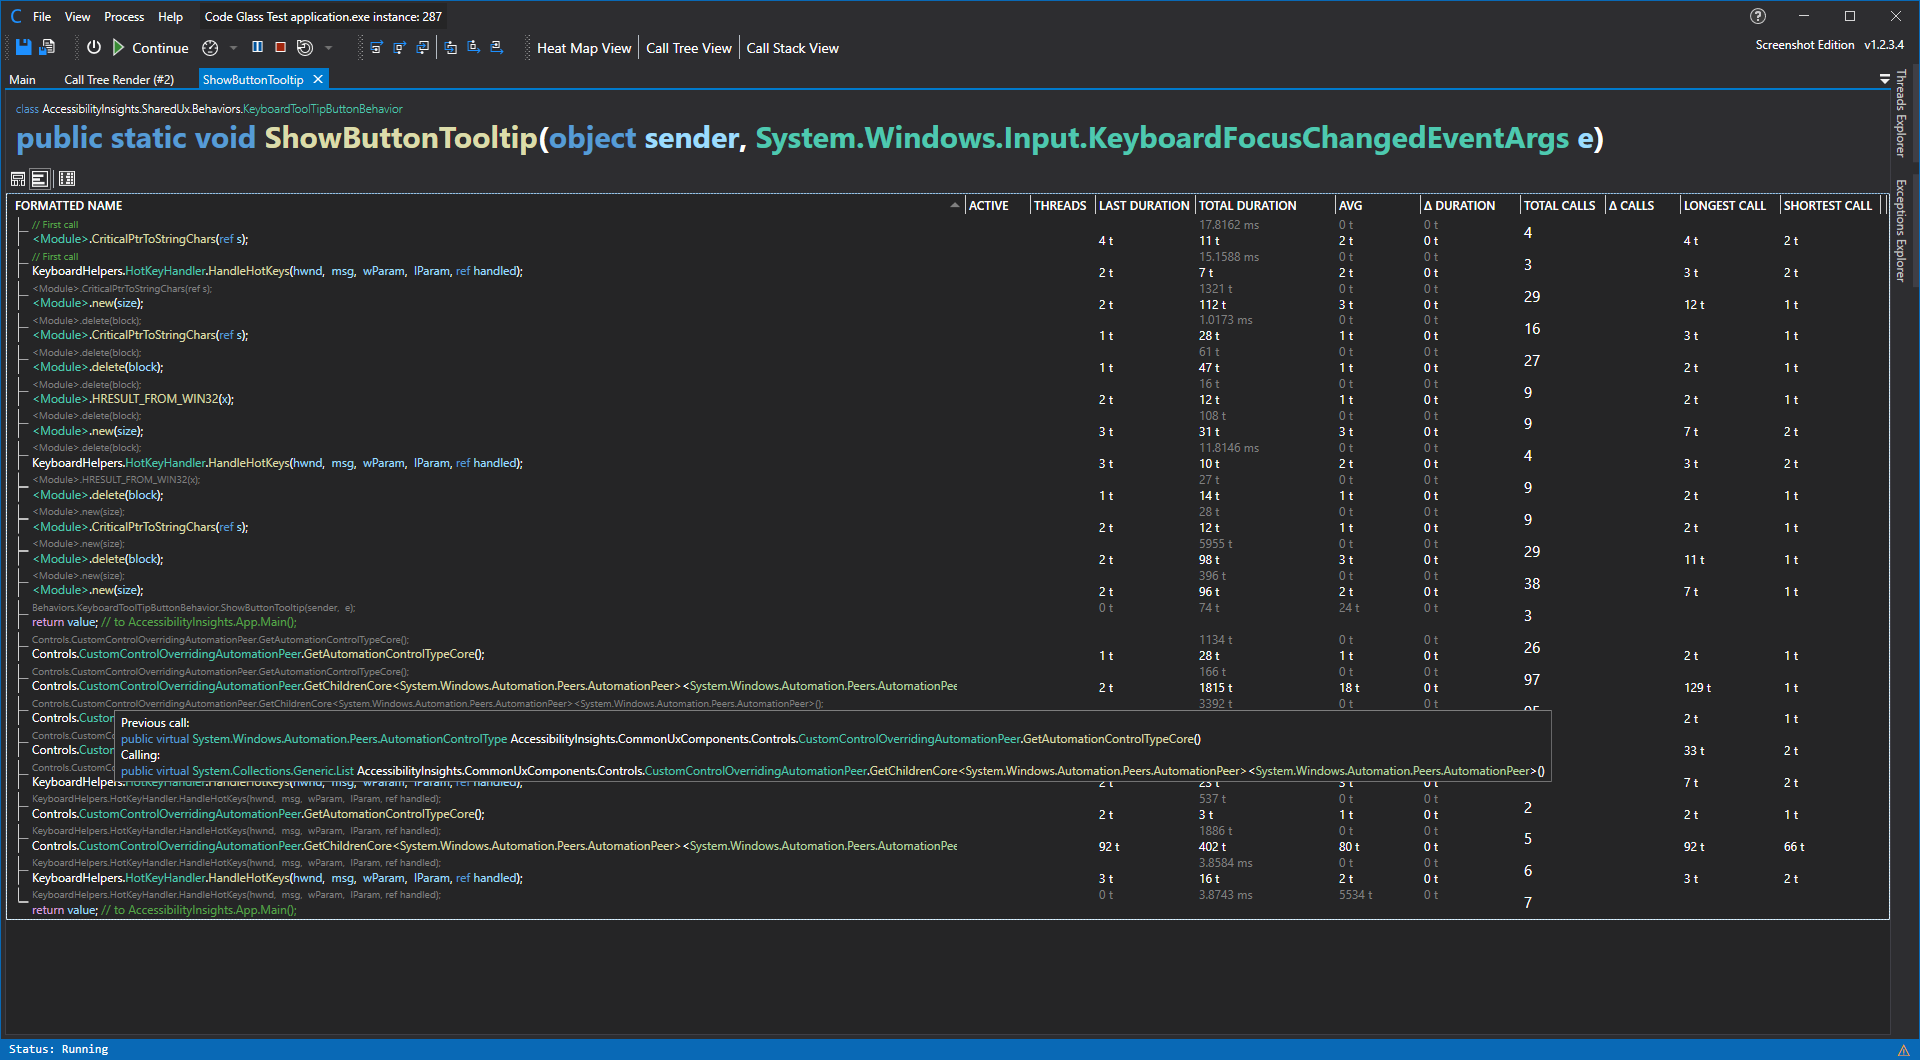
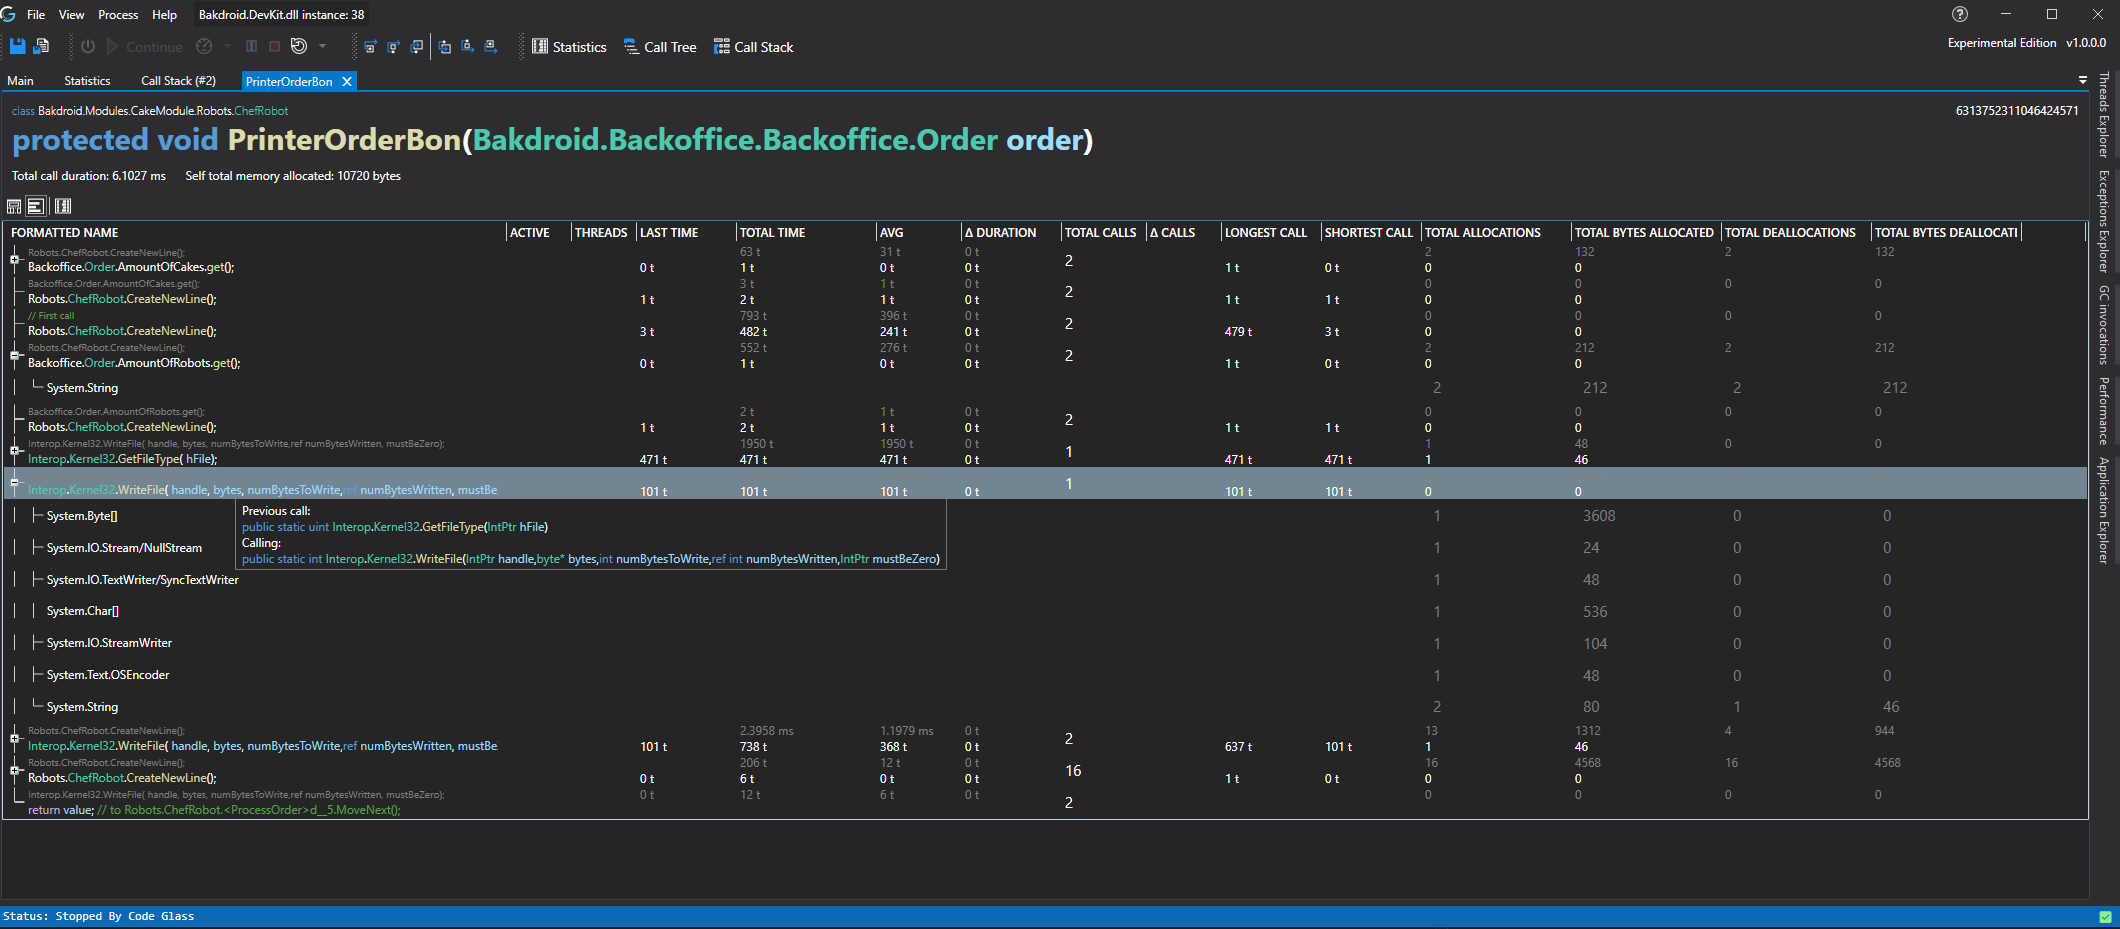
Start on docs for memory profiling

diff --git a/_docs/views/ApplicationInstanceDockWindow/CodeMemberDetailsView.md b/_docs/views/ApplicationInstanceDockWindow/CodeMemberDetailsView.md
@@ -21,7 +21,7 @@ See them for more information.
 {% include alert.html  type="warning" title="This is not done by decompiling your application!" content="This feature does <b>not</b> work by decompiling your application and inspecting your code, for info on how it does work see the the <a href=\"../../features/CodeBodyReconstruction\" >Code Body Reconstruction feature</a> description." %}
 From this view you can see on the left what functions call this function and how much time the function took for the caller.
 
-On the Right you see the embodiement  of our [Code Body Reconstruction feature](../../features/CodeBodyReconstruction.md). <br/>
+On the right you see the embodiement of our [Code Body Reconstruction feature](../../features/CodeBodyReconstruction.md). <br/>
 This view shows you not only wich functions were called in real time by this function but so much more, inluding:
 - Where in the code a function call was made. 
 - What paths needs to be taken inside the function to reach a specific function call 
@@ -33,6 +33,8 @@ This view shows you not only wich functions were called in real time by this fun
 - Cold Paths
 - Possibilities for optimizations, like loop unroling. 
 - How your code really behaves against what you wrote.
+- How much memory this function has allocated. (Only available with an [Experimental license](../../Editions/Experimental.md))
+- Where memory gets allocated. (Only available with an [Experimental license](../../Editions/Experimental.md))
 - see [Code Body Reconstruction feature](../../features/CodeBodyReconstruction.md) for more.
 
 {% include alertNoTitle.html  type="info" content="Keep in mind that what you will see is highly dependent on the <a href=\"../../features/ProfilingDataFiltering#application-instance-start-filters\" >Application Instance Start Filters</a>." %}
@@ -46,7 +48,16 @@ This view gives you statistics on the code paths within the function, it shows y
 
 {% include Statistics/BasicStatisticsColumnExplaination.md %}
 
+## Memory Statistics
+If you have an [Experimental License](../../Editions/Experimental.md) and you have Memory Profiling enabled, this view will give more information about allocations in your code.<br>
 
+In this case the following statistics columns have been added:
+- Total Allocations, the amount of times an object has been allocated, or the sum of all allocated objects in that namespace.
+- Total Deallocations, the amount of times an object has been deallocated, or the sum of all deallocated objects in that namespace.
+- Total Bytes Allocated, the amount of bytes an object has been allocated, or the sum of all allocated bytes in that namespace.
+- Total Bytes Deallocated, the amount of bytes an object has been deallocated, or the sum of all deallocated bytes in that namespace.
+
+Code Paths that allocate can also be expanded to see which objects it has allocated. Double clicking on the allocated object will open the [Allocated by Code Path View](AllocatedByCodePathView).
 
 
 ## Statistics View

diff --git a/_docs/views/ApplicationInstanceDockWindow/StatisticsWindow.md b/_docs/views/ApplicationInstanceDockWindow/StatisticsWindow.md
@@ -6,10 +6,20 @@ description: The profiling statistics of a (previously) profiled application.
 ![assets/img/ApplicationInstanceWindow/StatisticsWindow.png](../../../assets/img/ApplicationInstanceWindow/StatisticsWindow.png)
 
 
-This view contains the general statistics of the profiled application by namespace, classes, methods, etc.
-
 {% include Statistics/BasicStatisticsExplaination.md %}
 
+## Memory Statistics
+If you have an [Experimental License](../../Editions/Experimental.md) and you have Memory Profiling enabled, this view will give insight in the memory usage per namespace, class and method.<br>
+In this view you can choose to toggle the visibilty of the memory statistics by pressing the "Toggle Memory Stats" button.
+
+
+For memory profiling the following columns have been added to this table:
+- Self Allocations, the amount of allocations that happen in this function.
+- Self Deallocation, the amount of deallocations that happen in this function.
+- Callee Allocations, the total sum of allocations that happen in functions called by this function.
+- Self Bytes Allocated, the amount of bytes allocated in this function.
+- Self Bytes Deallocated, the amount of bytes deallocated in the fucntion.
+- Callee Bytes Allocated, the total sum of bytes allocated by functions called by this function.
 
 # Application Breadcrumbs
 - { All paths leading to [Application Instance Window](../ApplicationInstanceDockWindow.md) } /   / [View Menu](../ApplicationInstanceDockWindow/MenuBar.md#view-menu) / 
@@ -20,4 +30,3 @@ This view contains the general statistics of the profiled application by namespa
 - [Function Details View](CodeMemberDetailsView.md)
 - [Feature - Time Messurement](../../features/TimeMessurement.md)
 - [Feature - Profiling data filtering](../../features/ProfilingDataFiltering.md)
-

diff --git a/_includes/ProfilerSettings/BasicProfilerSettingsViewExplaination.md b/_includes/ProfilerSettings/BasicProfilerSettingsViewExplaination.md
@@ -7,6 +7,7 @@ Settings used at the start of the application instance can not be changed after 
 - Disable all function inlining
 - Pause at the start, Pauses the application before it ran any [not filtered](../../features/ProfilingDataFiltering) code.
 - Additional Arguments, the set of command-line arguments to use when starting the application
+- Memory profiling
 
 Keep in mind that currently, with  [Visual Studio Solution Runtime]({{site.baseurl}}/docs/features/supportedruntimes#visual-studio-solution), additional Arguments are supplied to the Visual Studio Process (devenv.exe) process, not to the process you are debugging with Visual Studio.
 If you require CodeGlass to supply it to the debugging process let us know by filing an [issue on github](({{site.baseurl}}/docs/pages/contact.md#github)).
@@ -43,7 +44,6 @@ It shows an estimate of how much memory it costs to store it.
 ### Roadmap settings
 Currently not changeable but will in the future release:
 - Enable Object counters, counting of objects and instances. ([Roadmap](../../Roadmap/ObjectCounters))
-- Enable memory profiler, basic memory profiler. ([Roadmap](../../Roadmap/MemoryProfiler))
 - Enable Advanced Memory profiler ([Pro Edition](../../Editions/Pro)), advanced memory profiling functions. ([Roadmap](../../Roadmap/AdvancedMemoryProfiler))
 - Exclude function time ([Pro Edition](../../Editions/Pro)), able to exclude function time each function call. (Currently included and will stay included by default for all [editions](../../Editions)) ([Roadmap](../../Roadmap/ExcludeFunctionTime))
 - Enable per function [execution control](../../features/ApplicationInstanceExecutionControl) ([Pro Edition](../../Editions/Pro)), allowes execution control but on function niveau. ([Roadmap](../../Roadmap/PerFunctionAction))

diff --git a/_docs/features/MemoryProfiling.md b/_docs/features/MemoryProfiling.md
@@ -1,0 +1,18 @@
+---
+title: Feature - Memory Profiling 
+description: Realtime memory profiler.
+---
+
+# Memory Profiling
+With our [realtime profiling](../features/RealtimeDataCollection.md) we are able to solve many problems other profilers can't. With our memory profiler we can also help with memory related problems and help you find the parts of your application that consume a lot of memory.
+![assets/img/ApplicationInstanceWindow/MemoryStatisticsWindow.png](../../assets/img/ApplicationInstanceWindow/MemoryStatisticsWindow.png)
+
+## Available Statistics
+At this point different pieces memory information can be viewed.<br>
+First there are the dedicated memory statistics view like the onces here:
+- [Memory Statistics View](../views/ApplicationInstanceDockWindow/MemoryStatisticsWindow.md)
+- [Allocatied By CodeP Path View](../views/ApplicationInstanceDockWindow/AllocatedByCodePathView.md)
+
+Memory statistics have also been integrated into some of the other views. Those views can be found here:
+- [Statistics View](../views/ApplicationInstanceDockWindow/StatisticsWindow.md#memory-statistics)
+- [Function Details View](../views/ApplicationInstanceDockWindow/CodeMemberDetailsView.md#memory-statistics)

diff --git a/_docs/views/ApplicationInstanceDockWindow/MemoryStatisticsWindow.md b/_docs/views/ApplicationInstanceDockWindow/MemoryStatisticsWindow.md
@@ -1,0 +1,15 @@
+---
+title: View - Application Instance - Memory Statistics View
+description: The profiling statistics of a (previously) profiled application.
+---
+
+# Memory Statistics View
+![assets/img/ApplicationInstanceWindow/MemoryStatisticsWindow.png](../../../assets/img/ApplicationInstanceWindow/MemoryStatisticsWindow.png)
+
+The view contains the general memory statistics of the profiled application by namespace and allocated objects.
+
+{% include MemoryStatistics/BasicMemoryStatisticsExplaination.md %}
+
+When you double click on one of the namespace tree view items it will open the same screen, but it will only show memory statistics for that specific namespace.
+
+When you double click on one of the object tree view items it will open the [Code Paths that allocated this object view](AllocatedByCodePathView).

diff --git a/_docs/Editions/Experimental.md b/_docs/Editions/Experimental.md
@@ -17,6 +17,7 @@ Experimental also has access to the [Pro Edition features](Pro.md#pro-features).
 - [Visual Studio Solution Support](../features/supportedruntimes.md#visual-studio-solution)
 - [Any .NET runtime Support](../features/supportedruntimes.md)
 - [.Net Framework 2.0 - 3.5 support](../features/supportedruntimes.md#notes-on-net-framework-20-35) (4.0+ is available to all editions)
+- [Memory Profiling](../features/MemoryProfiling) (For now only for C#)
 - First access to the [new profiler](../Roadmap/NonDotNetProfiler.md) when it is released
 - First access to many [roadmap](../Roadmap.md) items when it is released.
 - Buffer settings in [Global Profiling settings Tab](../views/clientusersettingswindow/profilingsettings.md) (Currently also disabled for experimental, will be enabled again)

diff --git a/_docs/views/ApplicationInstanceDockWindow/AllocatedByCodePathView.md b/_docs/views/ApplicationInstanceDockWindow/AllocatedByCodePathView.md
@@ -1,0 +1,13 @@
+---
+title: View - Application Instance - Allocated by Code Path Memory Statistics View
+description: The profiling statistics of a (previously) profiled application.
+---
+
+# Allocated by Code Path Memory Statistics View
+![assets/img/ApplicationInstanceWindow/AllocatedByCodePathMemoryStatsWindow.png](../../../assets/img/ApplicationInstanceWindow/AllocatedByCodePathMemoryStatsWindow.png)
+
+This view shows all the function that have allocated this specific object. The nested function shows the Code Path that caused the object to get allcoated.
+
+{% include MemoryStatistics/BasicMemoryStatisticsExplaination.md %}
+
+When you double click on one of the tree view items it will open the [Code Member Details View](CodeMemberDetailsView).

diff --git a/_includes/Statistics/BasicStatisticsExplaination.md b/_includes/Statistics/BasicStatisticsExplaination.md
@@ -6,7 +6,7 @@ In the toolbar, you have multiple options; the first 3 define what data you want
 - [Application Instance Start Filters](../../features/ProfilingDataFiltering#application-instance-start-filters)
 - Show all, CodeGlass will apply no filter.
 
-Nest to that, you also have to option to collapse all items in the tree view.<br/>
+Next to that, you also have to option to collapse all items in the tree view.<br/>
 The last one is to reset the current Shortest and Longest call; this will be expanded on in the future to reset more statistics. ([Roadmap](../../Roadmap/StatisiticsSnapshots))
 
 {% include Statistics/BasicStatisticsColumnExplaination.md %}

diff --git a/_includes/MemoryStatistics/BasicMemoryStatisticsExplaination.md b/_includes/MemoryStatistics/BasicMemoryStatisticsExplaination.md
@@ -1,0 +1,5 @@
+The following pieces of information appear in the screenshot:
+- Total Allocations: The amount of times an object has been allocated, or the sum of all allocated objects in that namespace.
+- Total Deallocations: The amount of times an object has been deallocated, or the sum of all deallocated objects in that namespace.
+- Total Bytes Allocated: The amount of bytes an object has been allocated, or the sum of all allocated bytes in that namespace.
+- Total Bytes Deallocated: The amount of bytes an object has been deallocated, or the sum of all deallocated bytes in that namespace.

diff --git a/_docs/views/ApplicationInstanceDockWindow/MenuBar.md b/_docs/views/ApplicationInstanceDockWindow/MenuBar.md
@@ -36,11 +36,11 @@ Opens the [Main](MainWindow.md) window in a new tab or brings the tab to the for
 ### Console
 See [Roadmap - Remote Console](../../Roadmap/RemoteConsole.md)
 
-### Memory
-See [Roadmap - MemoryProfiler](../../Roadmap/MemoryProfiler.md)
-
 ### Statistics
 Opens the [Statistics](StatisticsWindow.md) window in a new tab or brings it to the foreground   
+
+### Memory Statistics
+Opens the [Memory Statistics](MemoryStatisticsWindow) window in a new tab or brings it to the foreground.
 
 ### Code Heat Map
 This button opens a [Code Heat Map](CodeHeatMap.md) in a new tab.
